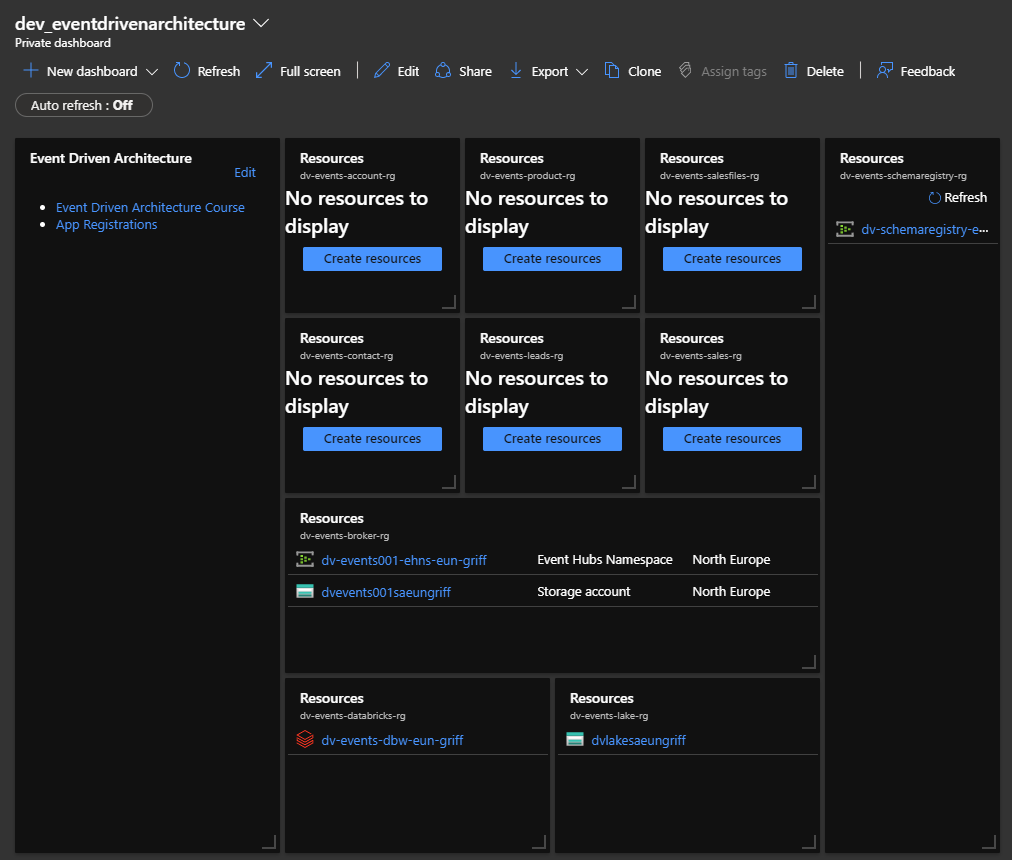
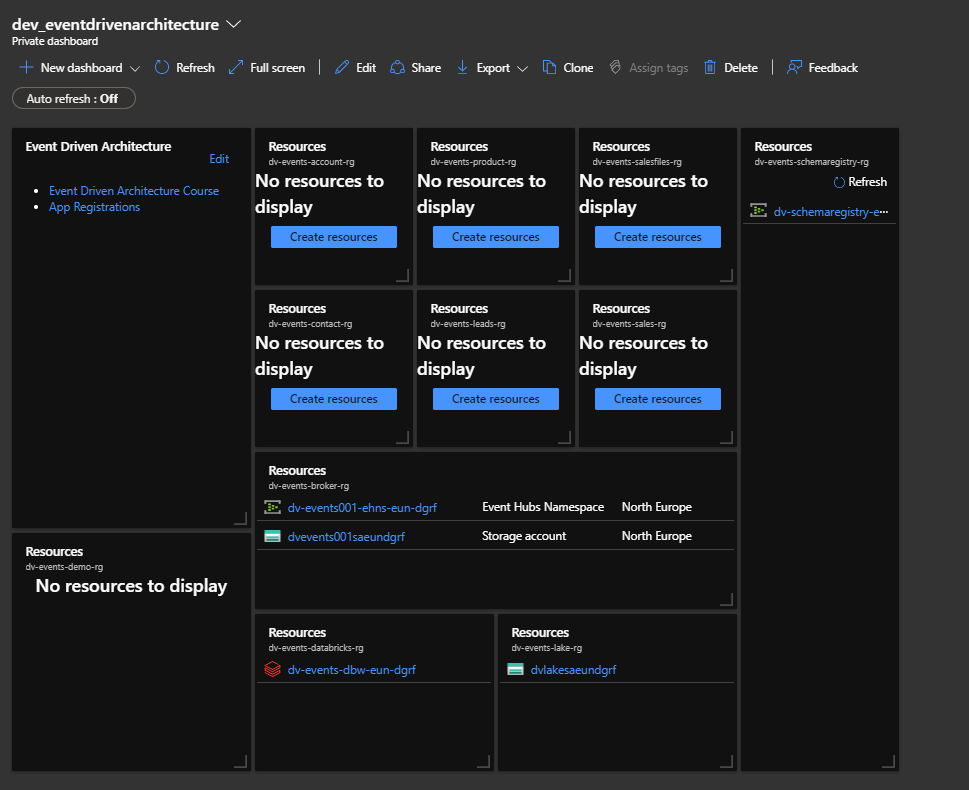
publisher and consumer deploy working

Changed region(s): [[0.0, 0.0, 0.9907, 1.0]]

diff --git a/01_Platform/04_DedicatedResourceTemplates/ReadMe.md b/01_Platform/04_DedicatedResourceTemplates/ReadMe.md
@@ -1,0 +1,136 @@
+# Dedicated Resource Deployments
+
+In order for your applications, services and data streaming pipelines to integrare into your new platform, you will need to provide standard templates to make it easy to integrate.
+
+## Publisher
+
+The **[publisher.bicep](publisher.bicep)** code deploys an event hub on to the designated namespace with the parameters you supply and a container for capturing the events that will deploy to the designated storage account. The defaults in the bicep are what I would recommend, including capture being on so that you do not need to worry about losing any historical data. Combined with the lifecyle policies and immutablity already applied in the shared platform deployment, this means that all  data capture, retention and protection has now been handled. These problems have been solved allowing the value to be derived both from streaming data on the hub and guaranteed data capture, all in the same avro format.
+
+Combining this bicep with the key vault powershell deploy in the [DataGriffDeployment.psm1 module](./Modules/DataGriffDeployment.psm1) means that along with the event hub and storage account, the secure keys for the event hub are also available for the application to reference from a key vault immediately in a standard manner. This means the problem of integrating into the skeleton mandatory architecture is easy and value stream teams can focus soley on their local business problem.
+
+The deployment of these publisher assets, the event hub, the storage account container and the key vault with secrets should live with the application, service or data streaming pipeline that is producing this data. There should be a 1:1 coupling between the event producer and these assets, therefore both the code repository reference to the template pipeline (yaml pipeline: TODO) and the deployment of all these assets should live together.
+
+### Quick Start Publisher Demo App
+
+Pre-requisite is you must have deployed the shared infrastructure as per the instructions [here](../02_SharedInfrastructure/ReadMe.md).
+
+To deploy the dedicated app publisher integeation resources of the event hub, the key vault and the storage container into your skeleton platform for a demo application, run the following code in a Powershell terminal, replacing the top three parameters relevant to your environment. This will take a few minutes.
+
+```ps1
+$uniqueNamespace = "dgrf"               # Represents the unique id you are applying to your resources to ensure they are globally unique
+$subscription = "dataGriff Teaching"    # Name of your azure subscription
+$region = "northeurope"                 # Region you are deploying your resources
+
+$eventHubName = "demo"
+$deploymentName = "${eventHubName}PublisherDeployment"
+$resourceGroupname = "dv-events-broker-rg"
+$templateFile = "01_Platform\04_DedicatedResourceTemplates\Bicep\publisher.bicep"
+$environment = "dv"
+$eventhubnamespaceidentifier = "events001"
+$target = "demo"
+$sendlisten = 'send'
+$teamname = 'demo'
+
+Write-Host "Deploying event hub and storage account..."
+New-AzResourceGroupDeployment -name $deploymentName `
+    -ResourceGroupName $resourceGroupname `
+    -TemplateFile $templateFile `
+    -namespace  $uniqueNamespace `
+    -eventhubname $eventHubName
+Write-Host "Deployed event hub and storage account."
+
+Write-Host "Getting current drive location, assumes in root of azure_deventdrivenarchitecture repo..."
+$location = Get-Location
+$modulelocation = "$location\01_Platform\04_DedicatedResourceTemplates\Modules\DataGriffDeployment\DataGriffDeployment.psm1"
+Write-Host "Attempting to import module from $modulelocation..."
+Import-Module -Name $modulelocation
+Write-Host "Completed import module from from $modulelocation."
+
+Write-Host "Deploying key vault and event hub secrets..."
+    Publish-KeyVaultEventHub -subscription $subscription `
+        -environment $environment `
+        -uniqueNamespace $uniqueNamespace `
+        -region $region `
+        -eventhubname $eventhubname `
+        -eventhubnamespaceidentifier $eventhubnamespaceidentifier `
+        -target $target `
+        -sendlisten $sendlisten `
+        -teamname $teamname
+Write-Host "Deployed key vault and event hub secrets."
+```
+
+## Consumer
+
+### Quick Start Demo App Consumer
+
+Pre-requisite is you must have deployed the publisher demo resources as per the instructions [here](###-Quick-Start-Publisher-Demo-App).
+
+To deploy the dedicated app consumer integeation resources of the consumer group and key vault into your skeleton platform for a demo application, run the following code in a Powershell terminal, replacing the top three parameters relevant to your environment. This will take a few minutes.
+
+```ps1
+$uniqueNamespace = "dgrf"               # Represents the unique id you are applying to your resources to ensure they are globally unique
+$subscription = "dataGriff Teaching"    # Name of your azure subscription
+$region = "northeurope"                 # Region you are deploying your resources
+
+$eventHubName = "demo"
+$deploymentName = "${eventHubName}PublisherDeployment"
+$resourceGroupname = "dv-events-broker-rg"
+$templateFile = "01_Platform\04_DedicatedResourceTemplates\Bicep\consumer.bicep"
+$environment = "dv"
+$eventhubnamespaceidentifier = "events001"
+$target = "demo"
+$sendlisten = 'listen'
+$teamname = 'demo'
+
+Write-Host "Deploying event hub consumer group..."
+New-AzResourceGroupDeployment -name $deploymentName `
+    -ResourceGroupName $resourceGroupname `
+    -TemplateFile $templateFile `
+    -namespace  $uniqueNamespace `
+    -eventhubname $eventHubName `
+    -consumer $target `
+    -teamname $teamname
+Write-Host "Deployed event hub consumer group."
+
+Write-Host "Getting current drive location, assumes in root of azure_deventdrivenarchitecture repo..."
+$location = Get-Location
+$modulelocation = "$location\01_Platform\04_DedicatedResourceTemplates\Modules\DataGriffDeployment\DataGriffDeployment.psm1"
+Write-Host "Attempting to import module from $modulelocation..."
+Import-Module -Name $modulelocation
+Write-Host "Completed import module from from $modulelocation."
+
+Write-Host "Deploying key vault and event hub secrets..."
+    Publish-KeyVaultEventHub -subscription $subscription `
+        -environment $environment `
+        -uniqueNamespace $uniqueNamespace `
+        -region $region `
+        -eventhubname $eventhubname `
+        -eventhubnamespaceidentifier $eventhubnamespaceidentifier `
+        -target $target `
+        -sendlisten $sendlisten `
+        -teamname $teamname
+Write-Host "Deployed key vault and event hub secrets."
+```
+
+# Quick Start Demo Data Stream
+
+## Notes
+
+How to purge a soft delete key vault
+
+```ps1
+Remove-AzKeyVault -VaultName "dv-demo-kv-eun-dgrf" -InRemovedState -Location northeurope
+```
+
+```bash
+az deployment group create --name "publisherDeployment" --resource-group "dv-events-broker-rg" --template-file "01_Platform\04_DedicatedResource\publisher.bicep" --parameters namespace="{youruniqueid}" eventhubname="demo"
+```
+
+Need [latest version of powershell](https://docs.microsoft.com/en-us/powershell/scripting/install/installing-powershell?view=powershell-7.2) and then
+Need to [install-module Az](https://docs.microsoft.com/en-us/powershell/azure/install-az-ps?view=azps-7.0.0) with admin rights for pshell
+I had to open up a specific powershell 7 app from my machine
+Also restart pshell session in Vs code
+
+```bash
+az deployment group create --name "cosmosDeployment" --resource-group "dv-events-account-rg" --template-file "01_Platform\04_DedicatedResource\cosmos.bicep" --parameters namespace="{youruniqueid}" target='account' teamName="customer"
+```

diff --git a/01_Platform/02_SharedInfrastructure/ReadMe.md b/01_Platform/02_SharedInfrastructure/ReadMe.md
@@ -24,7 +24,7 @@ az login
 az account set --subscription "{your subscription name}"
 ```
 
-6. Deploy the schema registry shared infrastructure by running the following command in the terminal, replacing the namespace parameter {my unique namespace} with a unique name you want to use. This ensures that the resource you are deploying is unique in azure. For example I use "griff" as my unique postfix on Azure resources.
+6. Deploy the **schema registry** shared infrastructure by running the following command in the terminal, replacing the namespace parameter {my unique namespace} with a unique name you want to use. This ensures that the resource you are deploying is unique in azure. For example I use "griff" as my unique postfix on Azure resources.
 Once deployed confirm you can see the event hub namespace **dv-schemaregistry-ehns-eun-{my unique namespace}** in the portal in the **dv-events-schemaregistry-rg** resource group. You should also the resource is tagged with team: platform.
 
 ```bash
@@ -33,21 +33,21 @@ az deployment group create --name "schemaRegistryDeployment" --resource-group "d
 
 **Note** - this schema registry could be a part of the event broker namespace itself, we have just kept it separate for now to show scalability and to highlight it as a key component on the estate.
 
-7. Deploy the event broker shared infrastructure by running the following command in the terminal, replacing the namespace parameter {my unique namespace} with the same unique name you used above.
+7. Deploy the **event broker** shared infrastructure by running the following command in the terminal, replacing the namespace parameter {my unique namespace} with the same unique name you used above.
 Once deployed confirm you can see the event hub namespace **dv-events001-ehns-eun-{my unique namespace}** and storage account **dvevents001saeun{my unique namespace}** in the portal in the **dv-events-broker-rg** resource group. You should also the resource is tagged with team: platform.
 
 ```bash
 az deployment group create --name "brokerDeployment" --resource-group "dv-events-broker-rg" --template-file "01_Platform\02_SharedInfrastructure\broker.bicep" --parameters namespace="{my unique namespace}"
 ```
 
-8. Deploy the data lake shared infrastructure by running the following command in the terminal, replacing the namespace parameter {my unique namespace} with the same unique name you used above.
+8. Deploy the **data lake** shared infrastructure by running the following command in the terminal, replacing the namespace parameter {my unique namespace} with the same unique name you used above.
 Once deployed confirm you can see the data lake storage account **dvlakesaeun{my unique namespace}** in the portal in the **dv-events-lake-rg** resource group. You should also the resource is tagged with team: platform.
 
 ```bash
 az deployment group create --name "lakeDeployment" --resource-group "dv-events-lake-rg" --template-file "01_Platform\02_SharedInfrastructure\lake.bicep" --parameters namespace="{my unique namespace}"
 ```
 
-9. Deploy the data lake shared infrastructure by running the following command in the terminal, replacing the namespace parameter {my unique namespace} with the same unique name you used above.
+1. Deploy the **databricks** shared infrastructure by running the following command in the terminal, replacing the namespace parameter {my unique namespace} with the same unique name you used above.
 Once deployed confirm you can see the data lake storage account **dv-events-dbw-eun-{my unique namespace}** in the portal in the **dv-events-databricks-rg** resource group. You should also the resource is tagged with team: platform.
 
 ```bash

diff --git a/README.md b/README.md
@@ -1,10 +1,22 @@
-## Requirements
+# Description
+
+## Requirements & Dependencies
+
+### Tooling
 
 * [Azure CLI](https://docs.microsoft.com/en-us/cli/azure/install-azure-cli-windows?tabs=azure-cli)
 * [Bicep VS Code](https://marketplace.visualstudio.com/items?itemName=ms-azuretools.vscode-bicep)
 * [Bicep CLI](https://docs.microsoft.com/en-us/azure/azure-resource-manager/bicep/install#windows)
 * [Event Hub VS Code](https://marketplace.visualstudio.com/items?itemName=Summer.azure-event-hub-explorer)
+* [Powershell VS Code](https://marketplace.visualstudio.com/items?itemName=ms-vscode.PowerShell)
 
+### Powershell Modules
+
+### Python Modules
+
+### Conventions
+
+* You will be requested to use your own **unique namespace** consistently throughout this course which represents how you distinguish your resources from others in Azure. Azure resources need to be globally unique so it is good to postfix with your own unique identifier for your assets. I use **dgrf** for my teaching and demos to represent datagriff and hope no one else uses it!
 
 ## Demo
 
